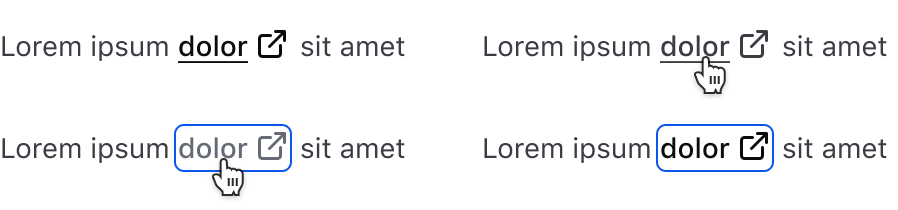
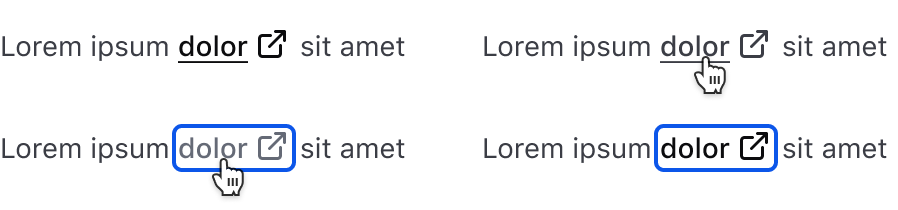
Small updates to prose

Changed region(s): [[0.7171, 0.6, 0.8731, 0.8286], [0.1871, 0.6, 0.343, 0.8286]]

diff --git a/website/docs/components/link/inline/partials/guidelines/guidelines.md b/website/docs/components/link/inline/partials/guidelines/guidelines.md
@@ -25,13 +25,17 @@ The Inline Link is only published as a component in Ember, there is no correspon
 
 We recommend using the `primary` variant as the default and for more important links.
 
-Lorem ipsum <Hds::Link::Inline @color="primary" @href="...">dolor</Hds::Link::Inline> sit amet, consectetur adipiscing elit.
+#### Primary example
+
+<span class="hds-typography-body-300">Lorem ipsum <Hds::Link::Inline @color="primary" @href="...">dolor</Hds::Link::Inline> sit amet, consectetur adipiscing elit.</span>
 
 ### Secondary
 
 Use the secondary variant for less important links, when the primary link can't be used, or when there are multiple links in a block of text.
 
-Lorem ipsum <Hds::Link::Inline @color="secondary" @href="...">dolor</Hds::Link::Inline> sit amet, consectetur adipiscing elit, sed do <Hds::Link::Inline @color="secondary" @href="...">eiusmod</Hds::Link::Inline> tempor incididunt ut <Hds::Link::Inline @color="secondary" @href="...">labore</Hds::Link::Inline> et dolore magna aliqua.
+#### Secondary example
+
+<span class="hds-typography-body-300">Lorem ipsum <Hds::Link::Inline @color="secondary" @href="...">dolor</Hds::Link::Inline> sit amet, consectetur adipiscing elit, sed do <Hds::Link::Inline @color="secondary" @href="...">eiusmod</Hds::Link::Inline> tempor incididunt ut <Hds::Link::Inline @color="secondary" @href="...">labore</Hds::Link::Inline> et dolore magna aliqua.</span>
 
 ## Icon position
 
@@ -45,13 +49,15 @@ There is no straight-forward method to add an icon within a block of text in Fig
 
 ### Trailing
 
-In most cases, use trailing icons as this breaks up the text block less and has a smaller impact on the readability of the link within a block of text.
+In most cases, use trailing icons as this breaks up the text less and has a smaller impact on the readability of the link within a block of text.
 
-Lorem ipsum <Hds::Link::Inline @color="primary" @icon="external-link" @iconPosition="trailing" @href="...">dolor</Hds::Link::Inline> sit amet.
+<span class="hds-typography-body-300">Lorem ipsum <Hds::Link::Inline @color="primary" @icon="external-link" @iconPosition="trailing" @href="...">dolor</Hds::Link::Inline> sit amet.</span>
 
 ### Leading
 
-Lorem ipsum <Hds::Link::Inline @color="primary" @icon="external-link" @iconPosition="leading" @href="...">dolor</Hds::Link::Inline> sit amet.
+Use a leading icon when using service icons (e.g., GitHub).
+
+<span class="hds-typography-body-300">Edit this page on <Hds::Link::Inline @color="primary" @icon="github" @iconPosition="leading" @href="...">GitHub</Hds::Link::Inline>.</span>
 
 ## Content
 
@@ -59,7 +65,7 @@ Lorem ipsum <Hds::Link::Inline @color="primary" @icon="external-link" @iconPosit
 
 Highlight the most relevant word or short phrase as it relates to the target of the link. For example:
 
-Learn more about deploying a Vault Cluster on HCP in the HashiCorp Developer <Hds::Link::Inline @color="primary" @icon="external-link" @iconPosition="trailing" @href="...">tutorial library</Hds::Link::Inline>.
+<span class="hds-typography-body-300">Learn more about deploying a Vault Cluster on HCP in the HashiCorp Developer <Hds::Link::Inline @color="primary" @icon="external-link" @iconPosition="trailing" @href="...">tutorial library</Hds::Link::Inline>.</span>
 
 !!!
 
@@ -67,6 +73,6 @@ Learn more about deploying a Vault Cluster on HCP in the HashiCorp Developer <Hd
 
 Don't wrap an entire sentence or text block in a link.
 
-<Hds::Link::Inline @color="primary" @icon="external-link" @iconPosition="trailing" @href="...">Learn more about deploying a Vault Cluster on HCP in the HashiCorp Developer tutorial library</Hds::Link::Inline>.
+<span class="hds-typography-body-300"><Hds::Link::Inline @color="primary" @icon="external-link" @iconPosition="trailing" @href="...">Learn more about deploying a Vault Cluster on HCP in the HashiCorp Developer tutorial library</Hds::Link::Inline>.</span>
 
 !!!

diff --git a/website/docs/components/link/inline/partials/specifications/anatomy.md b/website/docs/components/link/inline/partials/specifications/anatomy.md
@@ -5,5 +5,5 @@
 | Element | Usage |
 |---------|-------|
 | Leading Icon | Optional |
-| Text | Required; the component yields text passed to.  |
+| Text | Not a property, but required; the component yields text passed to it. |
 | Trailing Icon | Optional |
